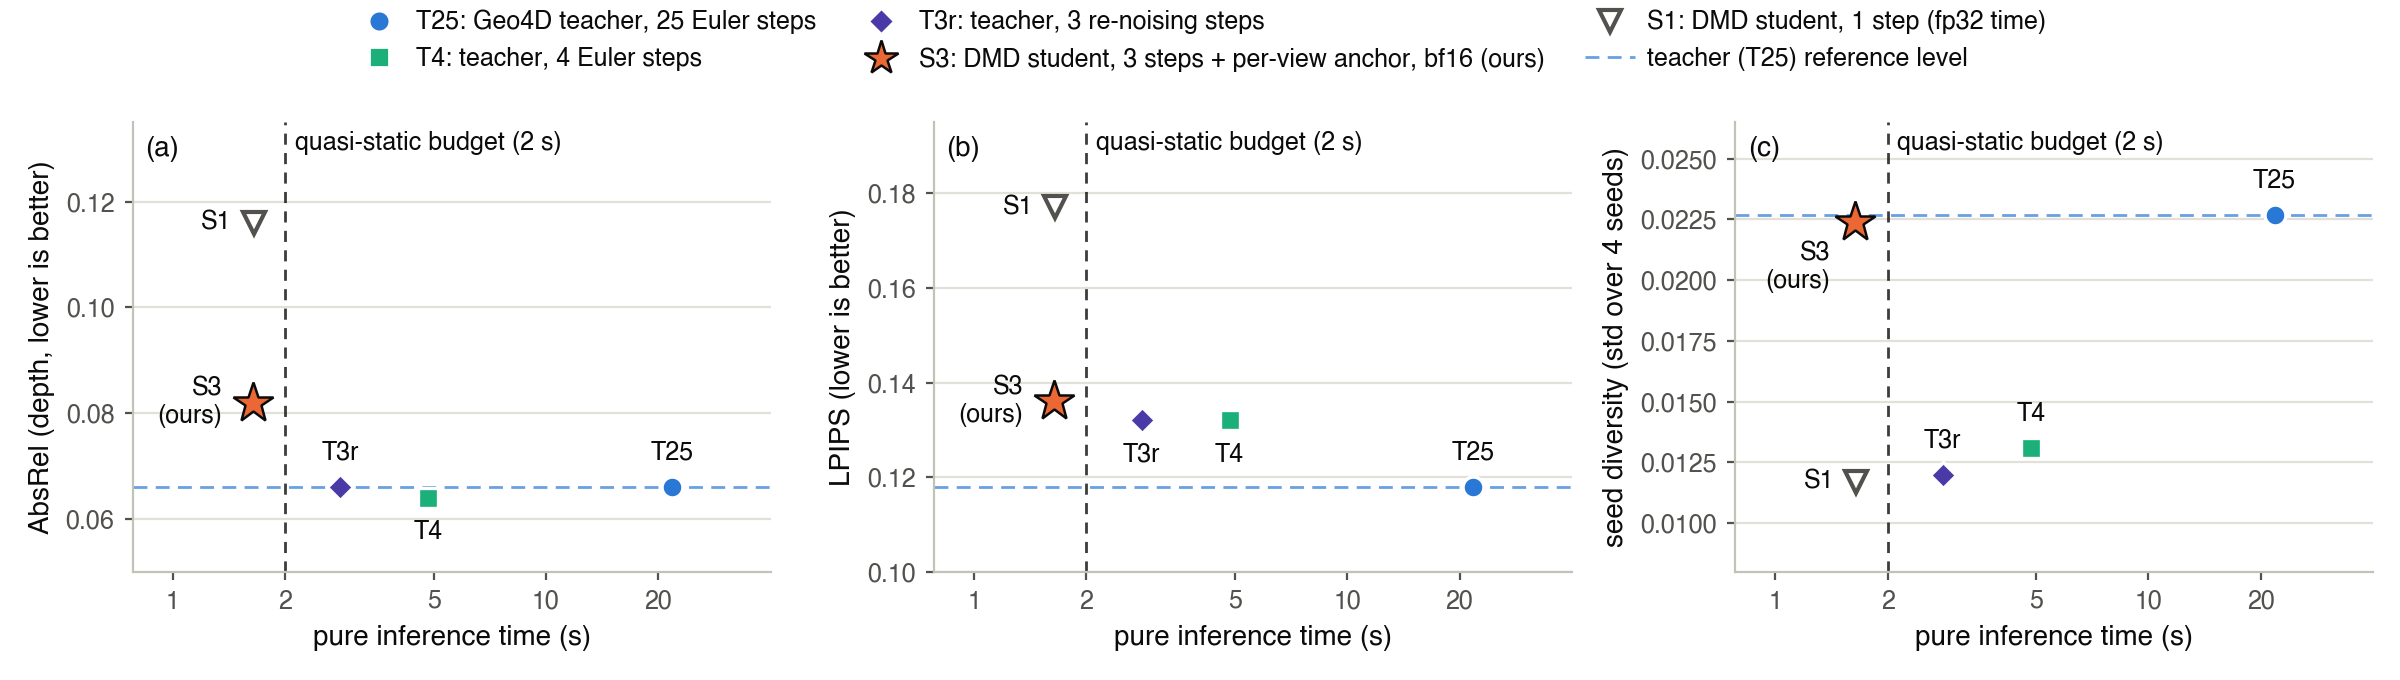
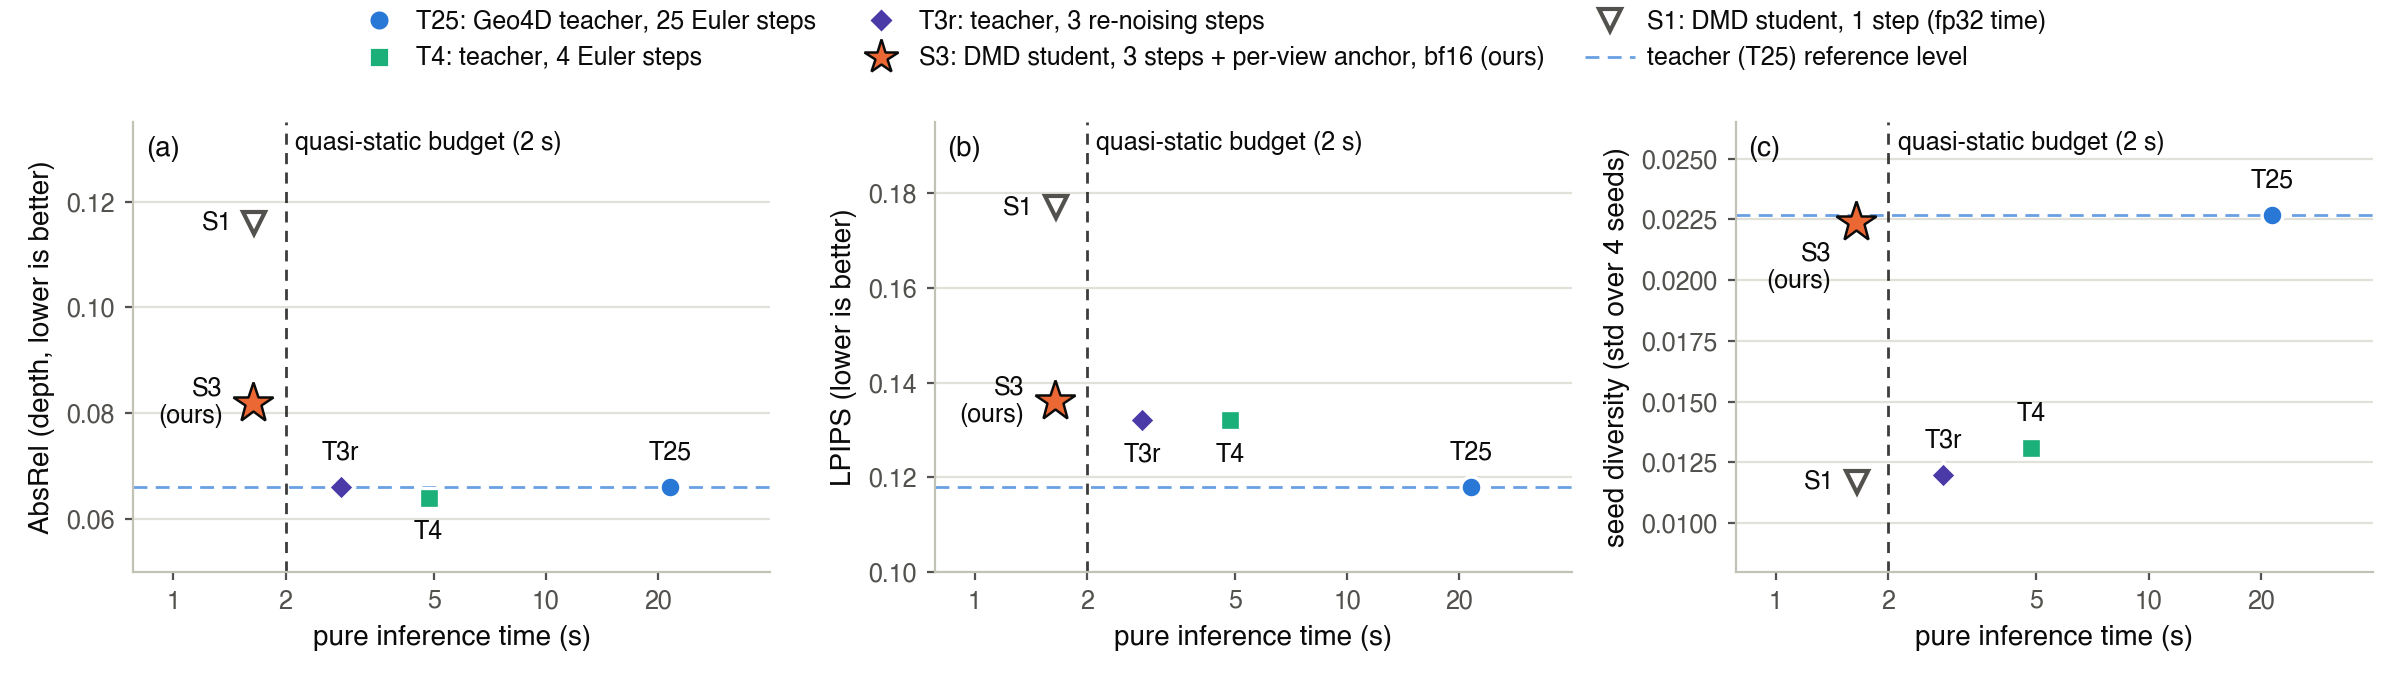
Correct headline timing to 21.49 s teacher / 13.1x from joint re-measurement; regenerate figures

diff --git a/paper/figures/make_fig1_overview.py b/paper/figures/make_fig1_overview.py
@@ -1,10 +1,10 @@
 """Figure 1 (overview): Geo4D teacher vs. our 3-step DMD student.
 
 All numbers come from FACTS.md:
-  teacher: 25 Euler steps, sigma_max = 700, CFG (batch 2x), fp32, 2 views x 10 RGB-D frames, 21.8 s
+  teacher: 25 Euler steps, sigma_max = 700, CFG (batch 2x), fp32, 2 views x 10 RGB-D frames, 21.5 s
   student: 3 re-noising steps at sigma = 700 -> 70.5 -> 2.3, x0 prediction then re-noise, no CFG, bf16,
            per-view input anchor (scale from conditioning pointmap; right view via inv(E_L) E_R),
-           1.64 s (13.3x), AbsRel +0.015, LPIPS +0.018, sharpness and seed diversity preserved.
+           1.64 s (13.1x), AbsRel +0.015, LPIPS +0.018, sharpness and seed diversity preserved.
 """
 import matplotlib
 
@@ -149,7 +149,7 @@ ax.text((sx1 + sx2) / 2, Y_SCHED - 0.13, "25 Euler steps, CFG guider (batch 2x)"
         ha="center", va="top", fontsize=9)
 
 bracket(x_cond - w_cond / 2, x_vae + w_vae / 2, Y_BRK)
-ax.text((x_cond - w_cond / 2 + x_vae + w_vae / 2) / 2, Y_TIME, "21.8 s per prediction",
+ax.text((x_cond - w_cond / 2 + x_vae + w_vae / 2) / 2, Y_TIME, "21.5 s per prediction",
         ha="center", va="center", fontsize=11, weight="bold")
 
 # ================================================================ divider
@@ -209,7 +209,7 @@ ax.text(x_anc2 + 0.22, Y_SCHED + 0.30,
 
 bracket(x_cond2 - w_cond / 2, x_anc2 + w_anc / 2, Y_BRK, color=ACCENT)
 ax.text((x_cond2 - w_cond / 2 + x_anc2 + w_anc / 2) / 2, Y_TIME,
-        "1.64 s per prediction (13.3x faster)", ha="center", va="center",
+        "1.64 s per prediction (13.1x faster)", ha="center", va="center",
         fontsize=11, weight="bold", color=ACCENT)
 ax.text((x_cond2 - w_cond / 2 + x_anc2 + w_anc / 2) / 2, Y_RES,
         "sharpness and seed diversity preserved;  AbsRel +0.015,  LPIPS +0.018  (vs. teacher)",

diff --git a/paper/figures/make_fig7_time_breakdown.py b/paper/figures/make_fig7_time_breakdown.py
@@ -2,7 +2,7 @@
 
 All numbers are copied from FACTS.md Sections 6.1 and 6.2 (one RTX 5090, one
 sample = 2 views x 10 frames at 256 x 320). Horizontal stacked bars with a
-broken x axis so that the 21.75 s teacher bar and the ~1 s student bars are
+broken x axis so that the 21.49 s teacher bar and the ~1 s student bars are
 readable on the same scale. Printed totals are the totals reported in FACTS.md.
 """
 import os
@@ -19,7 +19,7 @@ OUT = os.path.join(HERE, "fig7_time_breakdown.png")
 # ---------------------------------------------------------------- data (FACTS.md 6.1-6.2)
 # label, UNet, conditioner, VAE decode, total as reported in FACTS.md
 ROWS = [
-    ("Teacher, Euler 25 steps (CFG)",          20.13, 0.73, 0.89, 21.75),
+    ("Teacher, Euler 25 steps (CFG)",          19.95, 0.60, 0.92, 21.49),
     ("Teacher, Euler 4 steps",                  3.22, 0.73, 0.89,  4.83),
     ("Student, 3 steps, fp32",                  1.19, 0.73, 0.88,  2.81),
     ("+ no unconditional branch",               1.18, 0.30, 0.90,  2.38),

diff --git a/paper/figures/make_fig6_speed_quality.py b/paper/figures/make_fig6_speed_quality.py
@@ -20,7 +20,7 @@ OUT_PNG = os.path.join(OUT_DIR, "fig6_speed_quality.png")
 #   key: (pure inference time [s], AbsRel, LPIPS, seed diversity)
 # ---------------------------------------------------------------------------
 DATA = {
-    "T25": (21.80, 0.066, 0.118, 0.0227),  # Geo4D teacher, Euler, 25 steps
+    "T25": (21.49, 0.066, 0.118, 0.0227),  # Geo4D teacher, Euler, 25 steps
     "T4":  (4.84,  0.064, 0.132, 0.0131),  # teacher, Euler, 4 steps
     "T3r": (2.81,  0.066, 0.132, 0.0120),  # teacher, re-noising, 3 steps
     "S3":  (1.64,  0.082, 0.136, 0.0224),  # DMD student, 3 steps + per-view anchor, bf16

diff --git a/paper/sections/S1_abstract_intro.md b/paper/sections/S1_abstract_intro.md
@@ -16,12 +16,12 @@ Our approach is summarized in Figure 1. We distill the frozen Geo4D teacher into
 
 ![Figure 1: Overview of few-step distillation of Geo4D. The frozen 25-step Geo4D teacher is distilled into a three-step student with distribution matching distillation in EDM sigma space; the student is sampled by predicting x₀ and re-noising to the next sigma, and a per-view scale anchored to the conditioning pointmap corrects the remaining global depth scale shift at inference time.](figures/fig1_overview.png)
 
-On 60 samples (120 view-samples) of the PlaceAppleFromBowlIntoBin task, the three-step student runs in 1.64 s on one RTX 5090, 13.3x faster than the 21.8 s teacher, and meets the 2 s quasi-static budget (1.18 s with torch.compile, timed on 5 samples). Its sharpness (+2%), seed diversity (+5% [+1, +8]), and cross-view consistency stay within their margins, while AbsRel is higher by 0.013 [+0.010, +0.017] and LPIPS by 0.018, both p<0.001. The training-free three-step teacher is also fast (2.81 s in fp32) and keeps the teacher's AbsRel, but loses 47% of its seed diversity, and the one-step student halves diversity and raises LPIPS to 0.177; neither meets the quality bar. The humanoid and dynamic budgets remain open, because even with the compiled decoder 0.63 s of conditioner and decoder cost (0.98 s in the bf16 headline configuration) is independent of the number of steps. A self-anchored training loss removes most of the raw scale shift (0.175 to 0.098) and closes the whole-image gap to +0.011, but region-level evaluation shows the gain comes from the static background while gripper localization degrades, so we keep the plain student and report the loss as an instructive negative result (Section 4.5). Extra re-noising steps at inference close most of the remaining depth gap (+0.0048 at five steps on 60 samples), and replacing the final step with the teacher turns the same checkpoint into a precise readout mode with depth below the teacher's, at the cost of diversity — an inference-time dial we analyze in Section 4.6.
+On 60 samples (120 view-samples) of the PlaceAppleFromBowlIntoBin task, the three-step student runs in 1.64 s on one RTX 5090, 13.1x faster than the 21.5 s teacher, and meets the 2 s quasi-static budget (1.18 s with torch.compile, timed on 5 samples). Its sharpness (+2%), seed diversity (+5% [+1, +8]), and cross-view consistency stay within their margins, while AbsRel is higher by 0.013 [+0.010, +0.017] and LPIPS by 0.018, both p<0.001. The training-free three-step teacher is also fast (2.81 s in fp32) and keeps the teacher's AbsRel, but loses 47% of its seed diversity, and the one-step student halves diversity and raises LPIPS to 0.177; neither meets the quality bar. The humanoid and dynamic budgets remain open, because even with the compiled decoder 0.63 s of conditioner and decoder cost (0.98 s in the bf16 headline configuration) is independent of the number of steps. A self-anchored training loss removes most of the raw scale shift (0.175 to 0.098) and closes the whole-image gap to +0.011, but region-level evaluation shows the gain comes from the static background while gripper localization degrades, so we keep the plain student and report the loss as an instructive negative result (Section 4.5). Extra re-noising steps at inference close most of the remaining depth gap (+0.0048 at five steps on 60 samples), and replacing the final step with the teacher turns the same checkpoint into a precise readout mode with depth below the teacher's, at the cost of diversity — an inference-time dial we analyze in Section 4.6.
 
 In summary, our contributions are:
 
 (1) We identify what few-step sampling costs a multi-view RGB-D world model and show that pixel metrics hide it. Reducing the Geo4D sampler to three steps without training raises PSNR and keeps AbsRel while seed diversity drops by 47% and four seeds yield the same image; the metrics collapse in a fixed order (diversity, then LPIPS, then geometry, never PSNR); a cross-view chamfer distance rewards two views that are wrong in the same way; and on average 53% of the right-view ground-truth pixels produced by the released dataset transform are transformed invalid pixels that must be masked. We therefore evaluate per-view depth AbsRel, LPIPS, sharpness, seed diversity and cross-view chamfer jointly, with paired Wilcoxon signed-rank tests over 40 view-samples and a training-free few-step teacher as a control row.
 
-(2) A distillation recipe for the Geo4D generator: distribution matching distillation moved to EDM sigma space with DMD2 backward simulation, a three-sigma student sampled by predicting x₀ and re-noising to the next sigma, no classifier-free guidance (halving the cost of each UNet call), and checkpoint selection by the ratio of student to teacher latent standard deviation. In bf16 the student runs in 1.64 s on one RTX 5090, 13.3x faster than the 21.8 s teacher, with sharpness and seed diversity within their equivalence margins on 60 samples and small but significant losses in AbsRel (+0.013) and LPIPS (+0.018). Two negative results are reported as such: initializing the student by regressing teacher ODE trajectories converges to the mean even with true intermediate states, and adding a cross-view depth-ratio loss to DMD (targeting the teacher's ratio in one run and the ground-truth ratio in two) reduced sharpness in all three configurations we tried.
+(2) A distillation recipe for the Geo4D generator: distribution matching distillation moved to EDM sigma space with DMD2 backward simulation, a three-sigma student sampled by predicting x₀ and re-noising to the next sigma, no classifier-free guidance (halving the cost of each UNet call), and checkpoint selection by the ratio of student to teacher latent standard deviation. In bf16 the student runs in 1.64 s on one RTX 5090, 13.1x faster than the 21.5 s teacher, with sharpness and seed diversity within their equivalence margins on 60 samples and small but significant losses in AbsRel (+0.013) and LPIPS (+0.018). Two negative results are reported as such: initializing the student by regressing teacher ODE trajectories converges to the mean even with true intermediate states, and adding a cross-view depth-ratio loss to DMD (targeting the teacher's ratio in one run and the ground-truth ratio in two) reduced sharpness in all three configurations we tried.
 
 (3) A per-view input-anchored depth calibration that corrects the depth-scale drift of the distilled Geo4D student without ground truth. We identify that the student's residual depth error is a global per-view scale shift of about 9%, of which an affine fit explains 97%; because the conditioning pointmap is an input to the model, a per-view scale that aligns the predicted first frame to it is available at test time, with the camera extrinsics bringing the right view's conditioning pointmap into the reference frame. The anchor reduces the student's AbsRel from 0.175 to 0.082 and also improves the teacher (0.072 to 0.060).

diff --git a/paper/sections/S4_experiments.md b/paper/sections/S4_experiments.md
@@ -40,7 +40,7 @@ Table 1: Multi-view 4D video generation results. 20 samples (40 view-samples), d
 
 | method | training | steps | pure inference | PSNR ↑ | AbsRel ↓ (L/R) | LPIPS ↓ | sharpness | diversity | CV-Chamfer ↓ |
 |---|---|---|---|---|---|---|---|---|---|
-| Geo4D teacher (Euler) | none | 25 | 21.80 s | 20.62 | 0.066 (0.067/0.066) | 0.118 | 0.0134 | 0.0227 | 0.169 |
+| Geo4D teacher (Euler) | none | 25 | 21.49 s | 20.62 | 0.066 (0.067/0.066) | 0.118 | 0.0134 | 0.0227 | 0.169 |
 | teacher, fewer steps (Euler) | none | 4 | 4.84 s | 21.22 | 0.064 | 0.132 | 0.0121 | 0.0131 | 0.165 |
 | teacher, fewer steps (re-noising) | none | 3 | 2.81 s | 21.30 | 0.066 | 0.132 | 0.0119 | 0.0120 | 0.167 |
 | ODE regression init (v2) | regression | 4 | 7.9 s* | 14.42 | 0.547 | — | fog | seeds identical | 0.137 |
@@ -86,7 +86,9 @@ Table 3: Pure inference time (s) and acceleration variants. Upper block: fp32 br
 
 ![Figure 7: Pure inference time breakdown. UNet, conditioner, and decoder time for the teacher and each student variant; once the UNet is fast, the fixed cost of conditioner and decoder becomes the bottleneck.](figures/fig7_time_breakdown.png)
 
-The largest single saving comes from precision. The released inference path runs the UNet in fp32 although the model was trained in bf16; casting the UNet and conditioner to bf16 takes the student from 2.16 s to 1.64 s. On the 20-sample protocol bf16 is lossless (AbsRel 0.0813 to 0.0819, LPIPS 0.1360 to 0.1357, diversity identical), so 1.64 s is the student time in Table 1, a 13.3x reduction from the teacher's 21.80 s. torch.compile on the decoder and then the UNet reaches 1.18 s on 5 samples. The compiled UNet was verified on all 20 samples: relative to the teacher, AbsRel +0.016 (p<0.001), LPIPS +0.018 (p<0.001), sharpness +0.0002 (p=0.69), diversity −0.0003 (p=1.00), at about 1.5 s in the evaluation harness. The compiled decoder could not be run in the evaluation path (the sgm VideoDecoder sets a `timesteps` attribute on the module at call time, which conflicts with the compile wrapper), so 1.18 s is verified on 5 samples only. Compiling the conditioner gives no gain; skipping the color decoder when only depth is needed gives 1.02 s.
+The largest single saving comes from precision. The released inference path runs the UNet in fp32 although the model was trained in bf16; casting the UNet and conditioner to bf16 takes the student from 2.16 s to 1.64 s. On the 20-sample protocol bf16 is lossless (AbsRel 0.0813 to 0.0819, LPIPS 0.1360 to 0.1357, diversity identical), so 1.64 s is the student time in Table 1, a 13.1x reduction from the teacher's 21.49 s. torch.compile on the decoder and then the UNet reaches 1.18 s on 5 samples. The compiled UNet was verified on all 20 samples: relative to the teacher, AbsRel +0.016 (p<0.001), LPIPS +0.018 (p<0.001), sharpness +0.0002 (p=0.69), diversity −0.0003 (p=1.00), at about 1.5 s in the evaluation harness. The compiled decoder could not be run in the evaluation path (the sgm VideoDecoder sets a `timesteps` attribute on the module at call time, which conflicts with the compile wrapper), so 1.18 s is verified on 5 samples only. Compiling the conditioner gives no gain; skipping the color decoder when only depth is needed gives 1.02 s.
+
+**Joint re-measurement.** The rows of Table 3 come from separate runs, so we re-measured the teacher and the three student schedules in a single process on the same harness and the same five batches. The teacher takes 21.49 s (UNet 19.95 s over 25 calls, conditioner 0.60 s, decoding 0.92 s) and the students 1.64 s, 1.86 s, and 2.08 s at three, four, and five steps, reproducing the separate measurements to within 1.2% and confirming that the four- and five-step times quoted in Section 4.6 are measured rather than extrapolated. All speed-ups in this paper are the ratios from this run: 13.1x at three steps, 11.6x at four, 10.3x at five. Per UNet call the teacher costs 0.798 s and the student 0.219 s, a factor of 3.6 of which about two comes from dropping the unconditional branch and the rest from bf16. The per-view anchor costs 0.001 s, and the hybrid of Section 4.6 routes only its last call to the teacher UNet without guidance at the same batch size, so its cost equals the four-step student's.
 
 Against the budgets of Section 1, the quasi-static target of 2 s is met (1.64 s, or 1.18 s with compilation). The humanoid target of 0.3 to 0.5 s and the dynamic target of 0.1 s are not met. The fixed cost of 0.63 s (conditioner 0.30 s, decoder 0.33 s) alone exceeds the humanoid budget, and the UNet (0.55 s for 3 calls) would have to shrink through quantization or lower resolution, which we leave to future work. DreamDojo (Gao et al., 2026) and RoboWorld (Jeon et al., 2026) report 10.8 and 15.3 FPS for robot world models without multi-view geometry evaluation, so their numbers are not comparable to ours.
 

diff --git a/paper/FACTS.md b/paper/FACTS.md
@@ -121,6 +121,21 @@ Anything marked "NOT DONE" must be described as future work, never as a result.
 | student re-noising 3 steps | 1.19 | 0.73 | 0.88 | 2.81 s |
 | student re-noising 1 step | 0.40 | 0.73 | 0.88 | 2.01 s |
 - Student UNet per call 0.40 s = half the teacher's 0.81 s because no CFG (batch 20 instead of 40). Fixed cost = 0.73 + 0.88 = 1.6 s.
+### 6.1b Joint re-measurement, teacher and students in ONE run (08-25, bench_timing_final.py, 5 batches, RTX 5090)
+Authoritative source of the headline speed-up: teacher and student measured in the same process, same harness, same data.
+| configuration | total | UNet (calls) | conditioner (calls) | VAE decode | anchor |
+|---|---|---|---|---|---|
+| T25 teacher, Euler 25 steps, CFG, fp32 | 21.49 s | 19.95 (25) | 0.60 (2) | 0.92 | - |
+| S3b student, re-noising 3 steps, anchor, bf16 | 1.64 s (13.1x) | 0.66 (3) | 0.30 (1) | 0.68 | 0.001 |
+| S4b student, 4 steps | 1.86 s (11.6x) | 0.88 (4) | 0.30 (1) | 0.68 | 0.001 |
+| S5b student, 5 steps | 2.08 s (10.3x) | 1.09 (5) | 0.30 (1) | 0.68 | 0.001 |
+- Replaces the earlier separate measurements (teacher 21.75 s) and the ESTIMATED 4/5-step times of N12 (1.86 / 2.08 s), which the
+  re-measurement reproduced exactly. Paper headline updated to 1.64 s vs 21.49 s = 13.1x (was 13.3x vs 21.8 s).
+- Teacher UNet per call 0.798 s (CFG, batch 40) vs student 0.219 s (no CFG, batch 20) = 3.6x, of which about 2x is the dropped uc branch.
+- Per-view anchor costs 0.001 s — free relative to everything else.
+- Fixed cost in this bf16, non-compiled configuration = conditioner 0.30 + decode 0.68 = 0.98 s (0.63 s after decoder compile, 6.2).
+- H4b (hybrid 4 steps) routes only the last call to the teacher UNet without CFG at the same batch, so its cost equals S4b.
+- Raw output: results/quantitative/timing_final.txt and timing_final_raw.json.
 ### 6.2 Acceleration variants (5 samples, same seed; AbsRel L/R shown to verify no quality drift)
 | variant | total | UNet | cond | decode | AbsRel L/R |
 |---|---|---|---|---|---|
@@ -136,14 +151,14 @@ Anything marked "NOT DONE" must be described as future work, never as a result.
 - UNet torch.compile verified on 20 samples paired: vs teacher AbsRel +0.016 (p<0.001), LPIPS +0.018 (p<0.001), sharpness +0.0002
   (p=0.69), diversity -0.0003 (p=1.00) — same conclusions as bf16; time about 1.5 s in the eval harness. Decoder compile could not be run in
   the eval path (sgm VideoDecoder sets a `timesteps` attribute on the module at call time, which conflicts with the torch.compile wrapper),
-  so 1.18 s is verified on 5 samples only. Headline number in the paper: 1.64 s (bf16), 13.3x faster than 21.80 s.
+  so 1.18 s is verified on 5 samples only. Headline number in the paper: 1.64 s (bf16), 13.1x faster than 21.49 s (joint re-measurement, 6.1b).
 - Remaining fixed cost 0.63 s (conditioner 0.30 + decode 0.33) blocks the humanoid target; the UNet itself (0.55 s for 3 calls) must shrink
   (quantization, resolution) for 0.3-0.5 s.
 
 ## 7. MAIN TABLE (20 samples = 40 view-samples, data seed 1234, fake pixels excluded, diversity 3 samples x 4 seeds)
 | method | training | steps | pure inference | PSNR ^ | AbsRel v (L/R) | LPIPS v | sharpness | diversity | CV-Chamfer v |
 |---|---|---|---|---|---|---|---|---|---|
-| Geo4D teacher (Euler) | none | 25 | 21.80 s | 20.62 | 0.066 (0.067/0.066) | 0.118 | 0.0134 | 0.0227 | 0.169 |
+| Geo4D teacher (Euler) | none | 25 | 21.49 s | 20.62 | 0.066 (0.067/0.066) | 0.118 | 0.0134 | 0.0227 | 0.169 |
 | teacher, fewer steps (Euler) | none | 4 | 4.84 s | 21.22 | 0.064 | 0.132 | 0.0121 | 0.0131 | 0.165 |
 | teacher, fewer steps (re-noising) | none | 3 | 2.81 s | 21.30 | 0.066 | 0.132 | 0.0119 | 0.0120 | 0.167 |
 | ODE regression init (v2) | regression | 4 | 7.9 s* | 14.42 | 0.547 | — | fog | seeds identical | 0.137 |
@@ -177,7 +192,7 @@ Anything marked "NOT DONE" must be described as future work, never as a result.
 8 Geo4D's two views share 100% of weights (shallow-copy bug).
 9 Training-free few-step teacher loses 47% diversity regardless of sampler.
 10 53% of right-view GT pixels are transformed invalid pixels (0.418 -> 0.064).
-11 Reported times included 2.9 s of evaluation scaffolding; pure inference is 21.8 s / 2.81 s (fp32).
+11 Reported times included 2.9 s of evaluation scaffolding; pure inference is 21.5 s / 2.81 s (fp32).
 12 Input anchor also improves the teacher (0.072 -> 0.060).
 
 ## 10. Status of the policy-level evaluation — NOT DONE

diff --git a/paper/sections/S7_appendix.md b/paper/sections/S7_appendix.md
@@ -48,7 +48,7 @@ The numbered findings from the experiment log are: (1) fewer steps raise PSNR bu
 
 **Weight sharing.** In Geo4D's wrappers.py the second-view UNet is a shallow copy of the first, followed by a deep copy of output_blocks only. The shallow copy shares the `_modules` dictionary, so the new output_blocks are written into the original module as well. We verified this with a toy test and by checkpoint comparison (all 795 output_blocks keys identical). The right view differs only through the spatial context (left-view hidden states) and its own conditioning latent.
 
-**Timing correction.** The earlier figures of 25.4 s (teacher) and 5.8 s (student) came from the log_images path and included 2.9 s of evaluation-only work: an extra UNet call for the evaluation loss (0.40 s), ground-truth reconstruction decoding (0.88 s), ground-truth encoding (0.49 s), and a duplicated conditioner call (1.09 s). Pure inference, defined as conditioner, sampler, and decoding of the generated latents, is 21.8 s and 2.81 s in fp32 (Table 3).
+**Timing correction.** The earlier figures of 25.4 s (teacher) and 5.8 s (student) came from the log_images path and included 2.9 s of evaluation-only work: an extra UNet call for the evaluation loss (0.40 s), ground-truth reconstruction decoding (0.88 s), ground-truth encoding (0.49 s), and a duplicated conditioner call (1.09 s). Pure inference, defined as conditioner, sampler, and decoding of the generated latents, is 21.75 s and 2.81 s in fp32 (Table 3). Because the rows of Table 3 were collected in separate runs, we later re-measured the teacher and the three student schedules together in one process; the teacher came out at 21.49 s and the students at 1.64, 1.86, and 2.08 s, within 1.2% of the separate runs. The speed-ups reported in the paper use this joint run, so the headline is 13.1x rather than the 13.3x implied by the two separate measurements. The difference is run-to-run variance, not a change of configuration.
 
 ## A.5 The Use of Large Language Models
 

diff --git a/paper/FACTS2.md b/paper/FACTS2.md
@@ -96,7 +96,7 @@
 
 ## N6. PROMOTION DECISION (author-approved, 08-24): 6d step 3200 is the MAIN student
 - The paper's main student is now "DMD + self-anchored training loss (beta=1, 3200 steps) + per-view inference anchor + bf16".
-  Inference pipeline and timing unchanged: 1.64 s (13.3x), 1.18 s with compile — same architecture and sampler as before.
+  Inference pipeline and timing unchanged: 1.64 s (13.1x), 1.18 s with compile — same architecture and sampler as before.
 - Main numbers (20 samples, paired vs teacher n=40):
   PSNR 20.45 (d -0.16 [90% CI -0.31, -0.01], p=0.070); AbsRel 0.078, L 0.076 / R 0.080 (d +0.0113 [+0.0069, +0.0157], p<0.001);
   LPIPS 0.135 (d +0.0172 [+0.0150, +0.0194], p<0.001); sharpness 0.0135 (d +0.0001, p=0.94); diversity 0.0213 (d -0.0014, p=0.44, n=6);
@@ -144,7 +144,7 @@
 - 20 samples, paired vs teacher, 90% CI:
 | metric | 3 steps | 4 steps | 5 steps |
 |---|---|---|---|
-| pure inference (est.) | 1.64 s | ~1.86 s | ~2.08 s |
+| pure inference (measured 08-25) | 1.64 s | 1.86 s | 2.08 s |
 | AbsRel | 0.082, +0.0155 [+0.0098,+0.0211] | 0.075, +0.0085 [+0.0023,+0.0146] | 0.072, +0.0058 [-0.0001,+0.0117] |
 | LPIPS | +0.0177 | +0.0147 [+0.0129,+0.0165] | +0.0147 [+0.0131,+0.0163] |
 | sharpness | +0.0002 | +0.0002 | +0.0003 |
